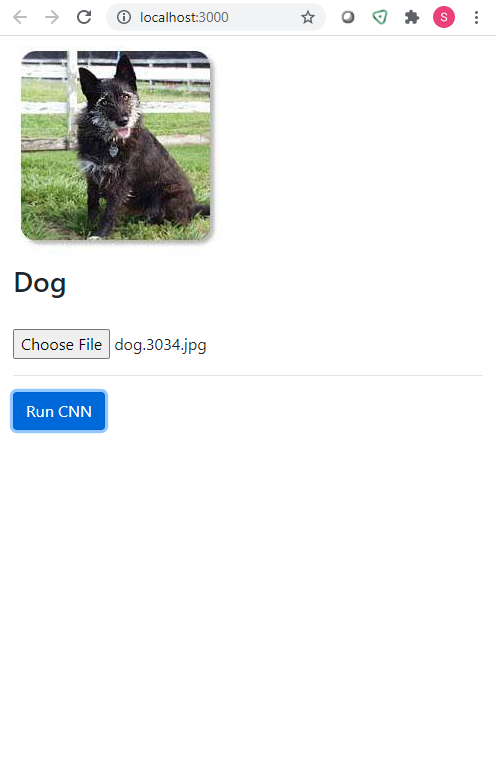
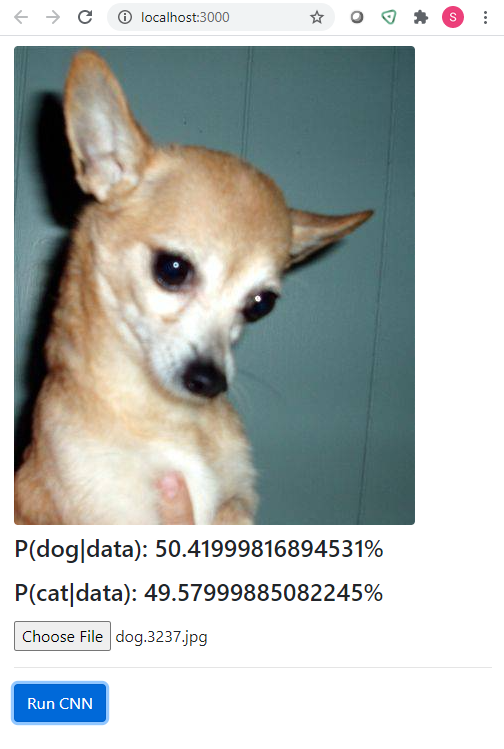
new photos

diff --git a/frontend/src/components/Upload.js b/frontend/src/components/Upload.js
@@ -4,7 +4,8 @@ import "./Upload.css";
 
 const Upload = () => {
   const [file, setFile] = useState("");
-  const [pred, setPred] = useState("Make a prediction");
+  const [predDog, setPredDog] = useState("");
+  const [predCat, setPredCat] = useState("");
   const [img, setImg] = useState(
     "https://cdn.pixabay.com/photo/2015/10/05/22/37/blank-profile-picture-973460_960_720.png"
   );
@@ -34,7 +35,8 @@ const Upload = () => {
         },
       })
       .then((res) => {
-        setPred(res.data["class_id"] === "0" ? "Dog" : "Cat");
+        setPredDog(res.data[0]);
+        setPredCat(res.data[1]);
         setLoading(false);
       })
       .catch((err) => console.log(err));
@@ -46,12 +48,19 @@ const Upload = () => {
     </div>
   );
 
+  const results = (
+    <div>
+      <p>P(dog|data): {predDog * 100}% </p>
+      <p>P(cat|data): {predCat * 100}% </p>
+    </div>
+  );
+
   return (
     <div className="container">
       <img src={img} className="figure-img img-fluid rounded" />
-      <br />
-      <h3>{loading ? loadingSpinner : pred}</h3>
-      <br />
+
+      <h4>{loading ? loadingSpinner : results}</h4>
+
       <form onSubmit={handleSubmit}>
         <input
           type="file"

diff --git a/backend/python/app.py b/backend/python/app.py
@@ -5,6 +5,7 @@ import requests
 from PIL import Image
 import torchvision.transforms as transforms
 from utils import convNet
+import numpy as np
 import os
 from flask_cors import CORS
 
@@ -35,7 +36,7 @@ def get_prediction(image):
     outputs = model(tensor)
     sm = nn.Softmax()
     predictions = sm(outputs).detach().numpy()
-    return predictions[0].tolist()
+    return np.around(predictions[0], decimals=4).tolist()
 
 
 @app.route('/', methods=['POST'])
